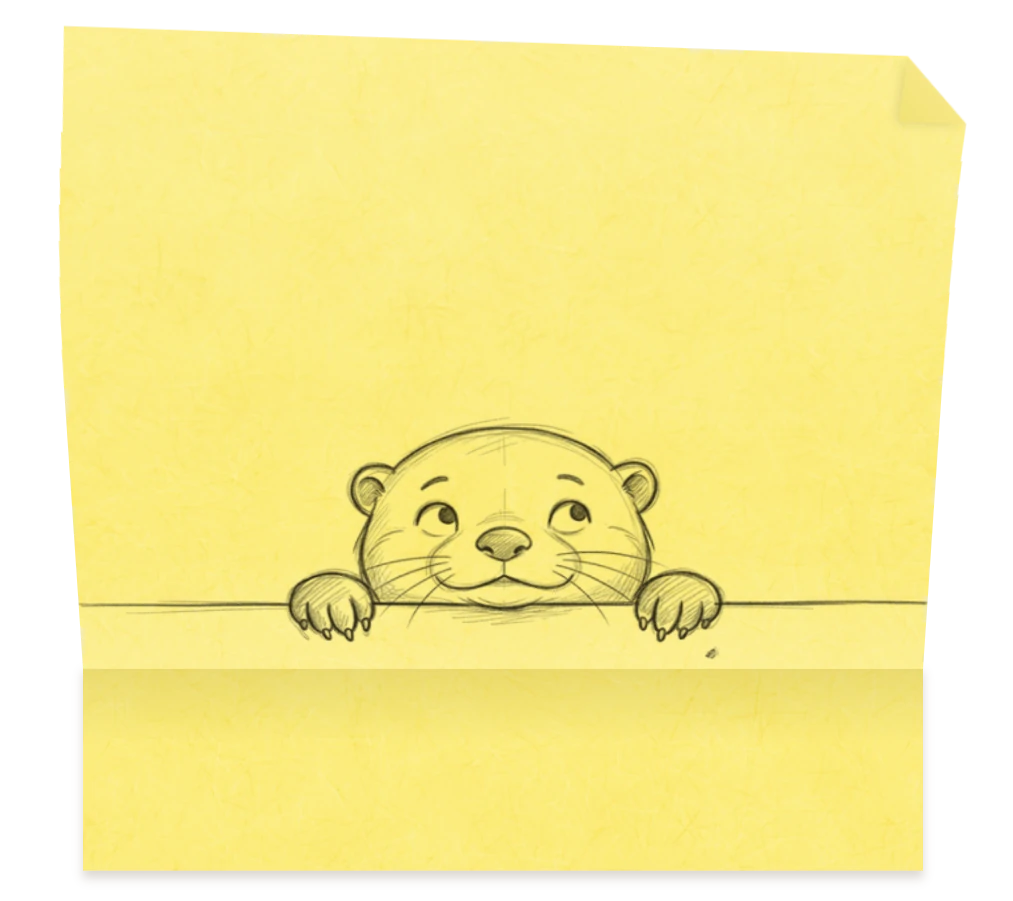
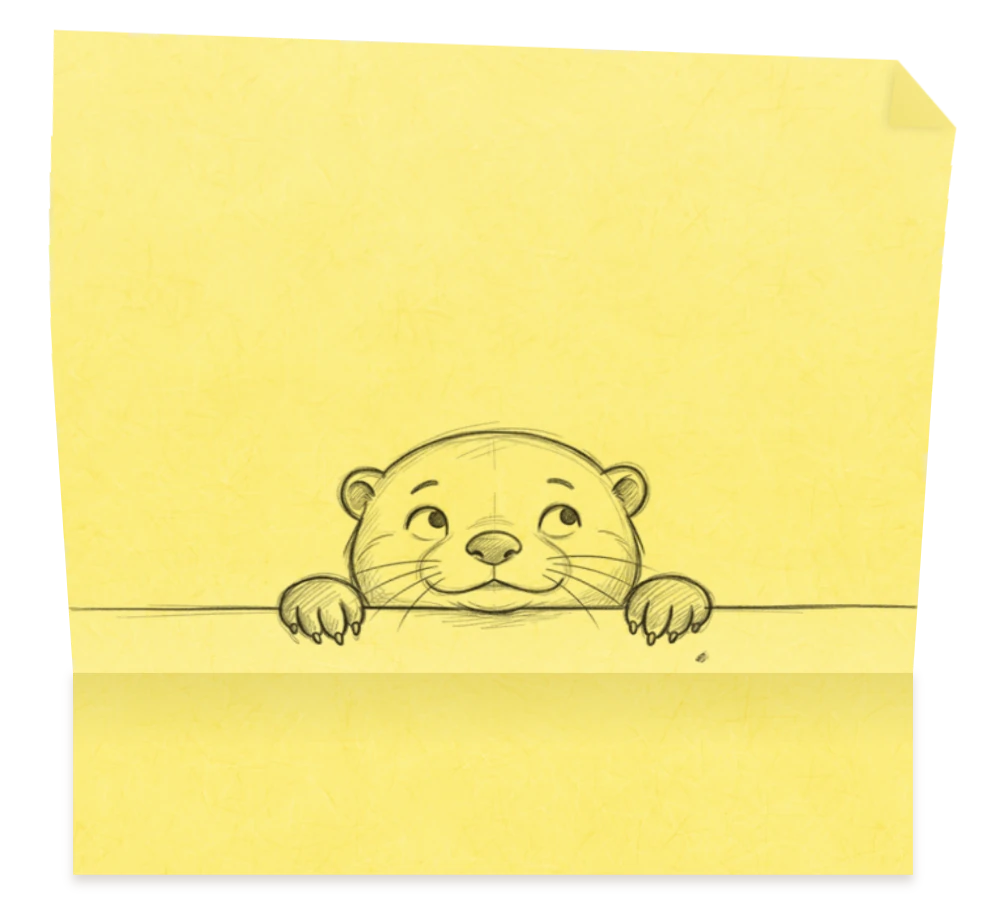
Post-it: settles back toward the page when hovered
Hovering raised the lift from 22 to 27 degrees, toward the viewer. It now
lowers it to 16, moving the note away from the camera. The flat pictures
shown while zoomed are re-baked for the new hovered pose.

Changed region(s): [[0.0312, 0.0311, 0.9678, 0.9634]]

diff --git a/src/app/landing/landing.module.css b/src/app/landing/landing.module.css
@@ -1200,11 +1200,12 @@
   -webkit-tap-highlight-color: transparent;
 }
 
-/* Leans out a little further when reached for - a little (34 was "too
-   much" toward the viewer, 2026-10-01). */
+/* Settles back toward the page when reached for (2026-10-07: "should
+   move away from camera not towards it"). It leaned out further, to 27,
+   until then - 34 was "too much" toward the viewer (2026-10-01). */
 .postit:hover,
 .postit:focus-visible {
-  --lift-n: 27;
+  --lift-n: 16;
 }
 
 .postit:focus-visible {

diff --git a/src/app/landing/PostIt.tsx b/src/app/landing/PostIt.tsx
@@ -71,7 +71,7 @@ const PRESS_MS = 420;
  *  Fetched at the first zoom; shown, once all have loaded, in one canvas -
  *  which a zoom only scales, where pictures are drawn in tiles that can be
  *  missing as they come into view (video/canvasPicture.ts). */
-const LIFT_REACHED = 27;
+const LIFT_REACHED = 16;
 
 /** Shares of the note's side: the sticky strip, and how far below the hero's
  *  edge the fold is. Mirrored in the stylesheet (.postit). */
